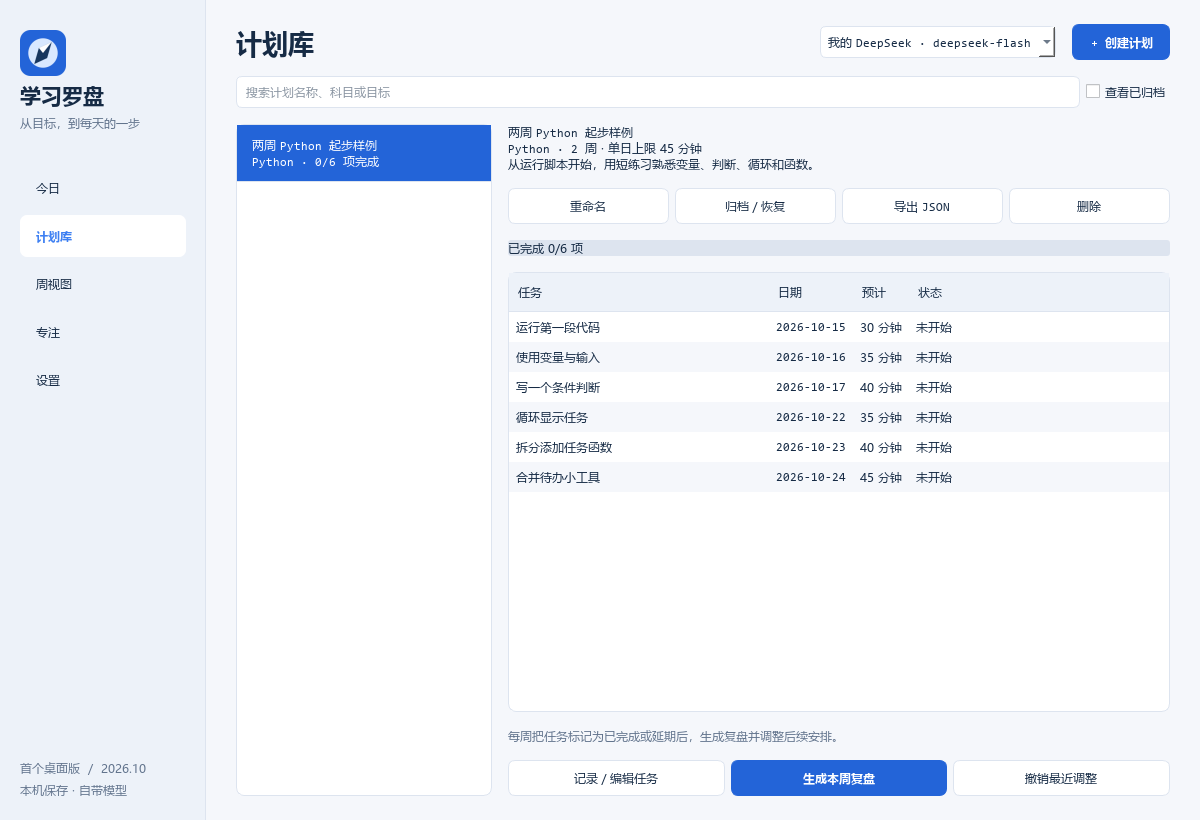
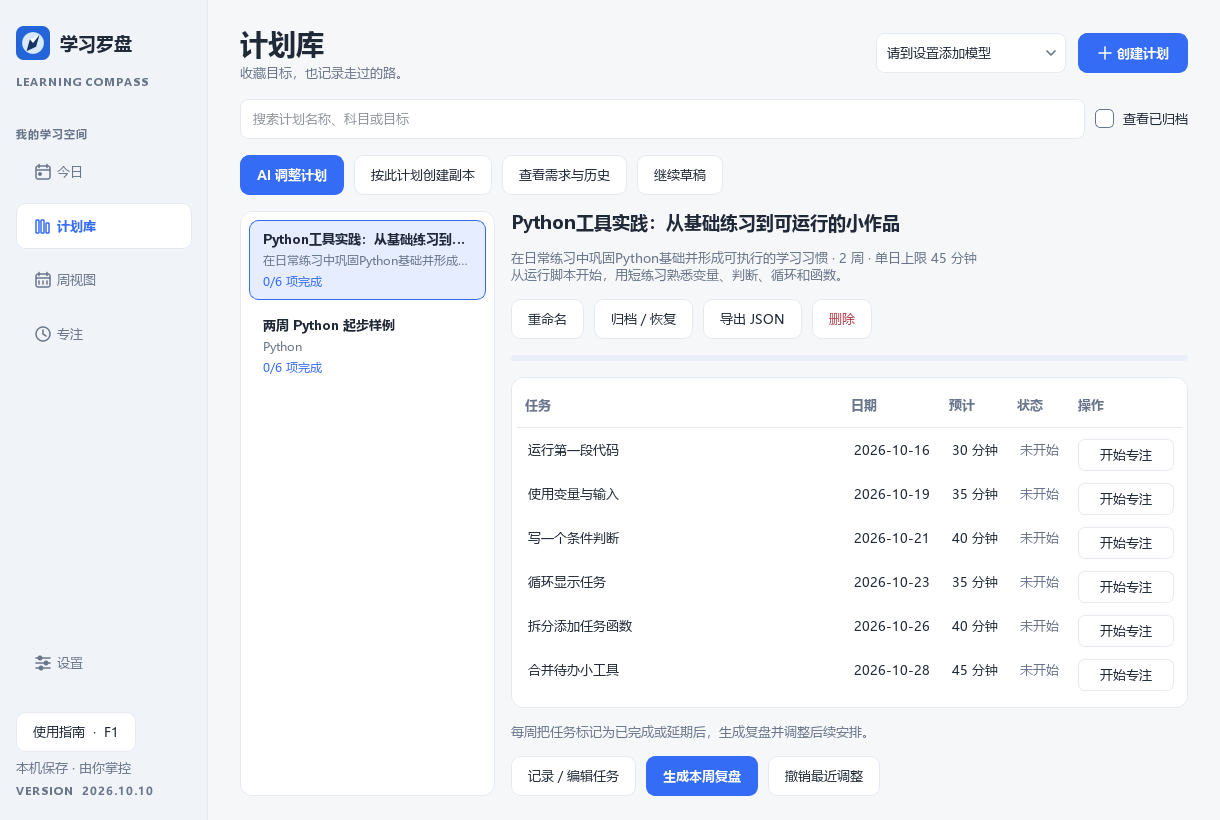
docs(release): record 335 passing tests and 2026.10.10 verification

diff --git a/docs/desktop-verification.md b/docs/desktop-verification.md
@@ -2,6 +2,34 @@
 
 验收日期：2026-10-15。面向 Windows 10／11 x64；本机构建系统为 Windows 11 x64、Python 3.12.14。
 
+## 2026.10.10 公开试用更新（2026-10-16）
+
+### 标题问题定位与兼容
+
+生成提示未区分简短名称和详细目标，原计划标题上限100字、科目上限80字；列表把二者及完成数作为完整两行文本绘制，在215–255px固定宽栏产生横向溢出。新三行委托按实际可用宽度省略名称与科目，完成数独占一行；Tooltip安全转义保留全文，详情和搜索仍使用原文本。新提示建议8–20字名称，没有降低旧数据兼容上限，不改任务／计划ID、学习记录或数据库结构。
+
+### 源码与界面检查
+
+全套335项唯一测试按业务210项／界面125项互斥文件分组全部通过，耗时分别206.75秒／1123.92秒；新增长标题与发布配置专项24项另行通过（不重复计入335）。已检查中文长名、英文不分词长名、长科目、两种栏宽、明暗主题、完整Tooltip、搜索末尾文字、同名计划稳定选择、重命名、完整导出不变，以及Mock生成保留旧长标题且不增加请求。
+
+原生Windows20项专项通过；最终两主题悬停组件2项通过。高缩放下原生系统鼠标模拟两次未可靠命中，测试改用逻辑Qt鼠标／悬停事件并按物理像素取色，未修改产品真实点击行为。这是组件事件与原生绘制验收，不冒充物理鼠标端到端操作。两主题卡片与980×680完整窗口截图已查看。
+
+首轮完整导出不变性测试发现隔离库的提醒定时器写入notifications，3失败／28通过；夹具暂停提醒后通过，仍保留完整导出比较，没有放宽产品逻辑或删除数据保护断言。后续字体与HoverEvent测试夹具均做清理或使用新接口，无真实模型请求。
+
+### 发布与安装验证边界
+
+安装验收使用同一installer.iss与相同程序目录，但为QA设置独立AppId并禁止写真实快捷方式；生产AppId不变，避免测试覆盖用户现有安装注册。构建清单增加实际exe摘要，用于将本机覆盖与公开附件关联；本机覆盖继续先备份程序及完整数据库摘要核对，不访问既有API Key。
+
+最终冻结程序通过移除外部Python后的启动、重启保留、单实例、同版本离线指南；原生指南具备独立无owner窗口并可恢复最小化。offscreen与Windows原生均核对28个下拉／9个数值／3个日期／1个时间（共41处输入）及5类滚轮样本。实际SDK/冻结程序16条本机loopback传输全部通过，覆盖Responses／Chat、默认代理／直连及模型列表／JSON连接／需求概略／每日生成。无真实服务商请求。
+
+同源独立QA AppId安装、同版本覆盖安装、安装程序启动及卸载保留记录均通过，未使用正式AppId或写真实菜单快捷方式；这不是在用户安装目录中试卸载，也不是旧版程序直接读取新版库的回退验证。首次隔离安装验证过程偏慢，但在既有各步骤180秒时限内完成，没有放宽时限或将未结束状态计通过。
+
[1 lines of base64/hex data omitted]
+
+当前仍未完成另一台无Python的干净Windows独立验收，不把PATH隔离测试等同于干净系统；程序未代码签名。本轮不读取真实Key，不发真实模型／付费生成请求。公开验收附件仅包含汇总，不上传JUnit机器名、临时路径、用户资料或数据库。
+
+13:54在收到本次完全退出确认后，已备份旧程序与完整数据库，再覆盖本机安装目录。覆盖前后完整数据库摘要一致，既有凭据未读取或更改；安装exe摘要与发布构建一致。没有为缩短名称而自动重命名任何用户计划。
+
 ## 2026.10.9 本机补丁 F（2026-10-16，版本号不变）
 
 共用动态逾期规则：日期早于本机今天、尚未完成且未归档。仅派生展示/筛选，不新增数据库状态，不改任务ID/内容/日期/学习记录；“延期”仍手动状态。今日及计划库名称旁绘制“逾期N天”徽标，周历暖红卡片与徽标、明细表强调同步；逾期与原状态并列显示。周状态筛选增加逾期，保持当前周/计划/科目交集。完成、改期和跨日刷新后重新判断，七日统计和已有复盘不变。

diff --git a/docs/releases/2026.10.10.md b/docs/releases/2026.10.10.md
@@ -2,9 +2,11 @@
 
 发布日期：2026-10-16。Windows 10／11 x64，中文界面，自带运行时，无需安装Python或PowerShell。
 
-这是2026.10.0之后的首次累计公开更新：合并此前2026.10.1–9的本机改进，并修复计划库长名称显示。下文是相对公开版的变化；每次本机补丁的详细原因与验证记录仍保留在[完整更新日志](../../CHANGELOG.md)。
+这是2026.10.0之后的首次累计公开更新：合并此前2026.10.1–9的本机改进，并修复计划库长名称显示。下文是相对公开版的变化；每次本机补丁的详细原因与验证记录仍保留在[完整更新日志](https://github.com/doubleadd111/ai-learning-compass/blob/2026.10.10/CHANGELOG.md)。
 
 ## 计划名称不再撑出列表
+
+![2026.10.10计划库：长名称省略，完成数独立显示](https://raw.githubusercontent.com/doubleadd111/ai-learning-compass/2026.10.10/docs/images/desktop-library.png)
 
 此前模型缺少短名称指导，标题和完整科目又直接占用固定宽度列表，长文本会产生横向滚动、隐藏完成数。
 
@@ -46,11 +48,13 @@
 
 旧公开版数据库会先备份再升级。升级后不要用2026.10.0直接打开新版数据；回退需配合对应旧版备份，不要让两个版本同时操作同一学习目录。
 
-本版没有代码签名，可能出现“下载不常见”或Windows发行者提示；请只从本仓库Release下载并核对校验值，不需要关闭防病毒或证书校验。[完整使用指南](../desktop-guide.md)。
+本版没有代码签名，可能出现“下载不常见”或Windows发行者提示；请只从本仓库Release下载并核对校验值，不需要关闭防病毒或证书校验。[完整使用指南](https://github.com/doubleadd111/ai-learning-compass/blob/2026.10.10/docs/desktop-guide.md)。
 
 ## 验证与已知限制
 
-新增长标题／长科目、栏宽变化、明暗主题、完整内容提示、搜索／改名／稳定ID和兼容性回归；测试结论见[验收记录](../desktop-verification.md)。发布附件的冻结启动、重启、单实例、指南、输入防误触及网络检查使用隔离测试资料，网络为本机Mock／loopback，不代表服务商质量评测。
+335项自动回归全部通过（业务210项、界面125项）；新增20项长名称与2项发布配置回归。原生Windows长名称20项和最终明暗悬停组件2项通过，额外重复专项不叠加到335项统计中。
+
+新增长标题／长科目、栏宽变化、明暗主题、完整内容提示、搜索／改名／稳定ID和兼容性回归；测试结论见[验收记录](https://github.com/doubleadd111/ai-learning-compass/blob/2026.10.10/docs/desktop-verification.md)。发布附件的冻结启动、重启、单实例、指南、输入防误触及网络检查使用隔离测试资料，网络为本机Mock／loopback，不代表服务商质量评测。
 
 本轮未读取真实Key或发送付费请求。用户此前实测成功与本次自动测试分开记录，不把HTTP200直接算作有效计划。
 

diff --git a/CHANGELOG.md b/CHANGELOG.md
@@ -37,6 +37,7 @@
 - 提供Windows x64按用户安装包、解压即用ZIP、源码、中文离线指南、完整历史、第三方许可证、构建清单与SHA-256校验值。
 - 更新前应完全退出托盘程序并备份；数据固定在LocalAppData，升级和正常卸载保留计划、学习记录及凭据。便携版必须解压完整目录，不只复制exe。
 - 自动测试使用Mock和本机loopback服务，本轮不读取真实Key、不发送真实模型请求。最终测试结果和本机安装验证见[验收记录](docs/desktop-verification.md)。
+- 发布前全套335项自动回归按业务210项／界面125项互斥分组全部通过；新增20项长名称及2项发布配置检查。原生Windows长名称专项20项、最终明暗悬停组件2项通过；没有将物理鼠标模拟失败计为通过。
 - 仍为公开试用：未完成另一台无Python的干净Windows独立验收；未作代码签名，Windows／浏览器可能提示发行者或下载不常见。首次启动偏慢、不同模型输出质量和系统通知行为仍需实际环境验证。
 - 手机端／云同步、账号、自动更新、拖拽日历与月视图尚未实现；不把用户学习目标中的双端同步当成本软件已交付能力。
 
